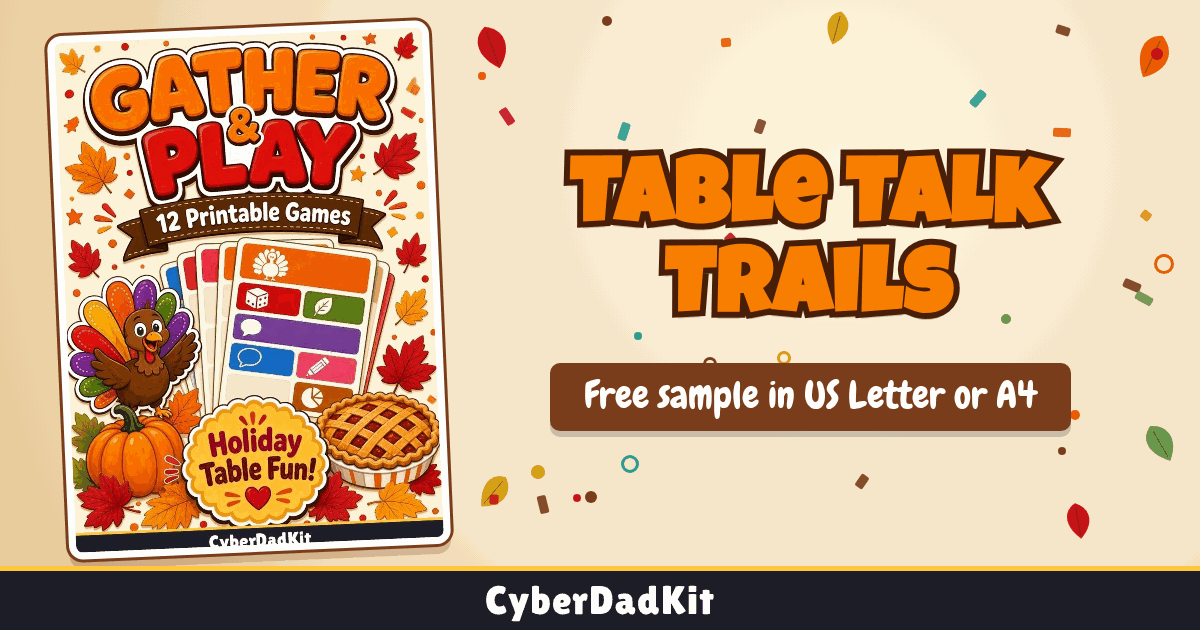
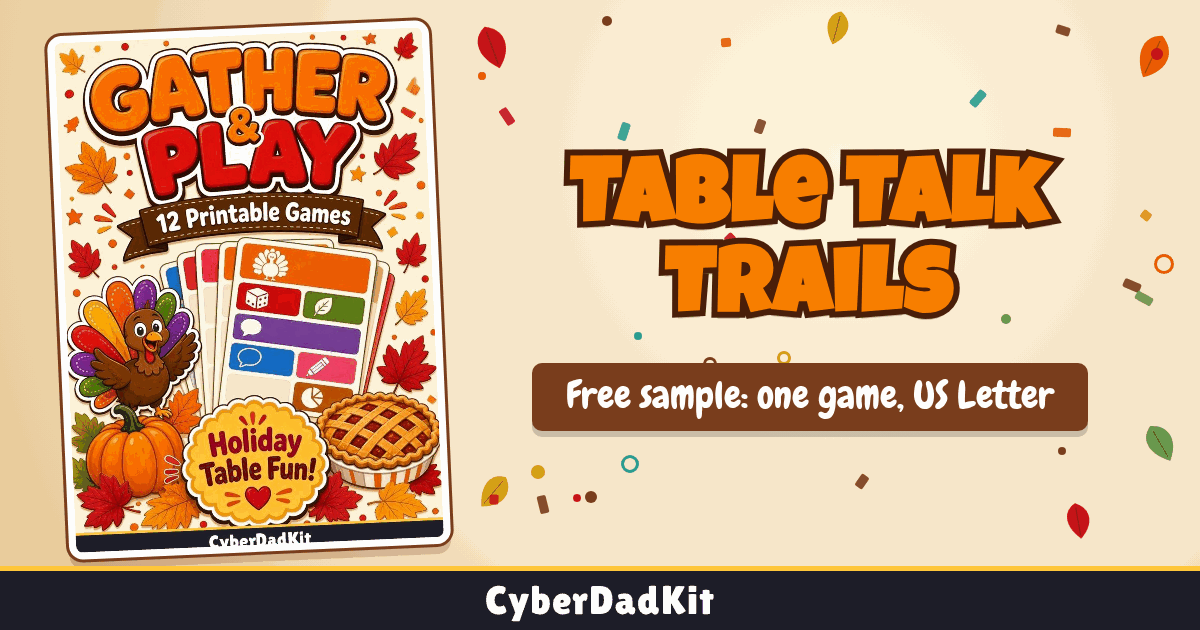
Holiday share cards v2: X picks only the landscape card, single header brand, no em dashes
- /holiday/sample/ card subline: 'Free sample: one game, US Letter' (no A4).
- /holiday/ JSON-LD image: tall pin -> landscape card.
- 6 refund pages: og:image (1200x630) + twitter:card summary_large_image + twitter:image (parent product card).
- Header on all 14 /holiday/ pages: remove duplicate 'CyberDad Kit' sub-span; link reads 'CyberDadKit' once.
- Em dashes in visible copy (/holiday/ 18, /holiday/refund/ 4) replaced with colons; no other wording change.

Changed region(s): [[0.4317, 0.573, 0.925, 0.6937]]

diff --git a/holiday/index.html b/holiday/index.html
@@ -25,7 +25,7 @@ layout: null
   "@type": "Product",
   "name": "Gather & Play: Thanksgiving + Christmas Gathering Games",
   "description": "Printable Thanksgiving and Christmas family gathering games. Twelve games in four PDFs for $7.99 USD, one-time, for customers located in the United States.",
-  "image": "https://getcyberdadkit.com/holiday/pins/pin-gathering-games.png",
+  "image": "https://getcyberdadkit.com/assets/share/holiday-gather-and-play.png",
   "brand": {
     "@type": "Brand",
     "name": "CyberDadKit"
@@ -55,7 +55,6 @@ layout: null
   <div class="hday-bar">
     <a class="hday-brand" href="/holiday/">
       <span class="hday-brand-name">CyberDadKit</span>
-      <span class="hday-brand-sub">CyberDad Kit</span>
     </a>
     <nav class="hday-nav" aria-label="Holiday storefront">
       <ul>
@@ -179,10 +178,10 @@ layout: null
   <section class="hday-section" id="thanksgiving-packs" aria-labelledby="thanksgiving-packs-title">
     <h2 id="thanksgiving-packs-title">More for Thanksgiving</h2>
     <ul class="hday-links">
-      <li><a href="/holiday/host-planner/">Thanksgiving Host Planner</a> <span>— an undated, write-in planner for the host, as printable PDFs plus a tablet PDF. $4.99 USD, one-time.</span></li>
+      <li><a href="/holiday/host-planner/">Thanksgiving Host Planner</a> <span>: an undated, write-in planner for the host, as printable PDFs plus a tablet PDF. $4.99 USD, one-time.</span></li>
       <li><a href="/holiday/table-set/">Thanksgiving Table Set</a><span>: festive print-at-home placemats, tent place cards and drink labels with a write-in line for what is in each glass. USD $4.99 one-time, US customers only.</span></li>
       <li id="travel-adventure"><picture class="festive-cover hday-card-cover"><img src="/assets/img/festive/thanksgiving-travel-adventure-cover.jpg" width="720" height="1022" alt="Cover of The Great Thanksgiving Travel Adventure, a 6-page US Letter color printable with 4 travel activities for Ages 7+." loading="lazy" decoding="async"></picture> The Great Thanksgiving Travel Adventure<span>: a 6-page US Letter color printable with 4 travel activities (word search, Travel Bingo, a maze and a Thankful Travel Challenge), plus an answer key. Print at home and bring it along with a pencil or crayons. Ages 7+. USD $4.99 one-time, US customers only.</span></li>
-      <li><a href="/holiday/kids-table/">Kids' Table Activity Pack</a> <span>— 14 print-at-home activities for the kids' table. $5.99 USD, one-time, or <a href="/holiday/kids-table/#bundle">$11.99 USD with Gather &amp; Play</a>.</span></li>
+      <li><a href="/holiday/kids-table/">Kids' Table Activity Pack</a> <span>: 14 print-at-home activities for the kids' table. $5.99 USD, one-time, or <a href="/holiday/kids-table/#bundle">$11.99 USD with Gather &amp; Play</a>.</span></li>
     </ul>
     <p><a class="hday-pay" id="host-planner-checkout-holiday" href="https://buy.stripe.com/9B69ASdOK1HWayNdYzds40b">Buy Thanksgiving Host Planner for $4.99 USD</a> <a class="hday-pay" id="table-set-checkout-holiday" href="https://buy.stripe.com/dRm28q9yu2M08qFaMnds40e">Buy Thanksgiving Table Set for $4.99 USD</a> <a class="hday-pay" id="travel-adventure-checkout-holiday" href="https://buy.stripe.com/00waEW4ea3Q4eP3f2Dds40g">Buy The Great Thanksgiving Travel Adventure for $4.99 USD</a> <a class="hday-pay" id="kids-checkout-holiday" href="https://buy.stripe.com/6oU7sK7qm2M05et3jVds40c">Buy Kids' Table Activity Pack for $5.99 USD</a> <a class="hday-pay" id="kids-bundle-checkout-holiday" href="https://buy.stripe.com/4gM9ASeSO72g9uJbQrds40d">Buy the Kids' Table + Gather &amp; Play bundle for $11.99 USD</a></p>
     <p>Paid purchases are available only to customers located in the United States.</p>
@@ -239,23 +238,23 @@ layout: null
       <div>
         <h3>Thanksgiving</h3>
         <ol>
-          <li>Table Talk Trails — conversation paths</li>
-          <li>Harvest Category Sprint — category lists with letter rules</li>
-          <li>Thanksgiving Mix-Up — ten letter scrambles</li>
-          <li>Pass-the-Plate Sketch — drawing telephone</li>
-          <li>Gathering Forecast — predict other players’ choices</li>
-          <li>Thankful Alphabet Relay — a cooperative memory chain</li>
+          <li>Table Talk Trails: conversation paths</li>
+          <li>Harvest Category Sprint: category lists with letter rules</li>
+          <li>Thanksgiving Mix-Up: ten letter scrambles</li>
+          <li>Pass-the-Plate Sketch: drawing telephone</li>
+          <li>Gathering Forecast: predict other players’ choices</li>
+          <li>Thankful Alphabet Relay: a cooperative memory chain</li>
         </ol>
       </div>
       <div>
         <h3>Christmas + winter</h3>
         <ol start="7">
-          <li>Winter Word Hunt — ten hidden words</li>
-          <li>Parcel Clues — describe a target without its blocked words</li>
-          <li>Snowfall Story Switch — fold-and-pass writing</li>
-          <li>Ribbon Route — a single-path maze</li>
-          <li>Seasonal Priority Shuffle — rank an imaginary gathering</li>
-          <li>Holiday Table Logic — deduce seats and paper decorations</li>
+          <li>Winter Word Hunt: ten hidden words</li>
+          <li>Parcel Clues: describe a target without its blocked words</li>
+          <li>Snowfall Story Switch: fold-and-pass writing</li>
+          <li>Ribbon Route: a single-path maze</li>
+          <li>Seasonal Priority Shuffle: rank an imaginary gathering</li>
+          <li>Holiday Table Logic: deduce seats and paper decorations</li>
         </ol>
       </div>
     </div>
@@ -298,14 +297,14 @@ layout: null
     <p id="gather-play-refund-wording">Gather &amp; Play is a digital product. You may request a full refund for any reason within 7 days of your purchase date. Email <a href="mailto:ruel@getcyberdadkit.com">ruel@getcyberdadkit.com</a> with the email address used for purchase and your order reference. Never send card details. Refunds are returned to the original payment method. No physical return is required. This policy applies only to Gather &amp; Play and does not limit your statutory rights.</p>
     <p>That wording is also on the <a href="/holiday/refund/">Gather &amp; Play refund page</a>. It does not promise automatic processing or a reply by a set time.</p>
     <ul class="hday-links">
-      <li><a href="/holiday/sample/">Free sample</a> <span>— Table Talk Trails, US Letter and A4</span></li>
-      <li><a href="/holiday/refund/">Gather &amp; Play refund policy</a> <span>— this product only</span></li>
-      <li><a href="/contact/">Contact</a> <span>— ruel@getcyberdadkit.com</span></li>
+      <li><a href="/holiday/sample/">Free sample</a> <span>: Table Talk Trails, US Letter and A4</span></li>
+      <li><a href="/holiday/refund/">Gather &amp; Play refund policy</a> <span>: this product only</span></li>
+      <li><a href="/contact/">Contact</a> <span>: ruel@getcyberdadkit.com</span></li>
       <li><a href="/holiday/refund/">Refund policy: Gather &amp; Play, full refund within 7 days of purchase. Each product page lists its own refund terms.</a></li>
       <li><a href="/terms-of-sale/">Terms of sale: holiday digital printables.</a></li>
       <li><a href="/cyberdadkit-privacy-policy.html">Privacy policy</a></li>
       <li><a href="/cookie-policy.html">Cookie policy</a></li>
-      <li><a href="/sites/refund/">Sites refunds and cancellation</a> <span>— website rebuilds</span></li>
+      <li><a href="/sites/refund/">Sites refunds and cancellation</a> <span>: website rebuilds</span></li>
       <li><a href="/sites/">CyberDad Kit Sites</a></li>
       <li><a href="/">CyberDadKit home</a></li>
     </ul>

diff --git a/holiday/refund/index.html b/holiday/refund/index.html
@@ -9,6 +9,11 @@ layout: null
 <title>Gather &amp; Play refund policy · CyberDadKit</title>
 <meta name="description" content="Refund policy for Gather &amp; Play only. A full refund may be requested for any reason within 7 days of the purchase date. Email ruel@getcyberdadkit.com. No card details.">
 <link rel="canonical" href="https://getcyberdadkit.com/holiday/refund/">
+<meta property="og:image" content="https://getcyberdadkit.com/assets/share/holiday-gather-and-play.png">
+<meta property="og:image:width" content="1200">
+<meta property="og:image:height" content="630">
+<meta name="twitter:card" content="summary_large_image">
+<meta name="twitter:image" content="https://getcyberdadkit.com/assets/share/holiday-gather-and-play.png">
 <meta name="theme-color" content="#244b3d">
 <link rel="stylesheet" href="/holiday/assets/holiday.css">
 {% include ga4.html %}
@@ -22,7 +27,6 @@ layout: null
   <div class="hday-bar">
     <a class="hday-brand" href="/holiday/">
       <span class="hday-brand-name">CyberDadKit</span>
-      <span class="hday-brand-sub">CyberDad Kit</span>
     </a>
     <nav class="hday-nav" aria-label="Gather and Play refund">
       <ul>
@@ -55,10 +59,10 @@ layout: null
     <h2 id="other-title">Other CyberDadKit policies</h2>
     <p>This page does not change them.</p>
     <ul class="hday-links">
-      <li><a href="/refund-policy/">Refund policy</a> <span>— our other digital products</span></li>
-      <li><a href="/terms-of-sale/">Terms of sale</a> <span>— holiday digital printables and our other digital products</span></li>
-      <li><a href="/sites/refund/">Sites refunds and cancellation</a> <span>— website rebuilds only</span></li>
-      <li><a href="/contact/">Contact</a> <span>— ruel@getcyberdadkit.com</span></li>
+      <li><a href="/refund-policy/">Refund policy</a> <span>: our other digital products</span></li>
+      <li><a href="/terms-of-sale/">Terms of sale</a> <span>: holiday digital printables and our other digital products</span></li>
+      <li><a href="/sites/refund/">Sites refunds and cancellation</a> <span>: website rebuilds only</span></li>
+      <li><a href="/contact/">Contact</a> <span>: ruel@getcyberdadkit.com</span></li>
       <li><a href="/holiday/">Gather &amp; Play</a></li>
       <li><a href="/holiday/sample/">Free sample</a></li>
     </ul>

diff --git a/holiday/kids-table/refund/index.html b/holiday/kids-table/refund/index.html
@@ -6,6 +6,11 @@
 <title>Kids' Table Activity Pack refund policy · CyberDadKit</title>
 <meta name="description" content="Refund policy for the Kids' Table Activity Pack and the Kids' Table Activity Pack + Gather &amp; Play bundle. A full refund may be requested for any reason within 7 days of the purchase date.">
 <link rel="canonical" href="https://getcyberdadkit.com/holiday/kids-table/refund/">
+<meta property="og:image" content="https://getcyberdadkit.com/assets/share/holiday-kids-table.png">
+<meta property="og:image:width" content="1200">
+<meta property="og:image:height" content="630">
+<meta name="twitter:card" content="summary_large_image">
+<meta name="twitter:image" content="https://getcyberdadkit.com/assets/share/holiday-kids-table.png">
 <meta name="theme-color" content="#244b3d">
 <link rel="stylesheet" href="/holiday/assets/holiday.css">
 <script async src="https://www.googletagmanager.com/gtag/js?id=G-5B1LNCPB56"></script>
@@ -21,7 +26,7 @@
 <div class="hday-banner"><p><strong>Kids' Table Activity Pack and its bundle only.</strong> Other CyberDadKit products keep their own policies.</p></div>
 <header class="hday-header">
   <div class="hday-bar">
-    <a class="hday-brand" href="/holiday/"><span class="hday-brand-name">CyberDadKit</span><span class="hday-brand-sub">CyberDad Kit</span></a>
+    <a class="hday-brand" href="/holiday/"><span class="hday-brand-name">CyberDadKit</span></a>
     <nav class="hday-nav" aria-label="Kids' Table refund"><ul>
       <li><a href="/holiday/kids-table/">Kids' Table Activity Pack</a></li>
       <li><a href="#license">Printing license</a></li>

diff --git a/holiday/trivia/refund/index.html b/holiday/trivia/refund/index.html
@@ -6,6 +6,11 @@
 <title>Christmas Trivia Night refund policy · CyberDadKit</title>
 <meta name="description" content="Refund policy for Christmas Trivia Night and the Christmas Trivia Night + Gather &amp; Play bundle. A full refund may be requested for any reason within 7 days of the purchase date.">
 <link rel="canonical" href="https://getcyberdadkit.com/holiday/trivia/refund/">
+<meta property="og:image" content="https://getcyberdadkit.com/assets/share/holiday-christmas-trivia.png">
+<meta property="og:image:width" content="1200">
+<meta property="og:image:height" content="630">
+<meta name="twitter:card" content="summary_large_image">
+<meta name="twitter:image" content="https://getcyberdadkit.com/assets/share/holiday-christmas-trivia.png">
 <meta name="theme-color" content="#244b3d">
 <link rel="stylesheet" href="/holiday/assets/holiday.css">
 <script async src="https://www.googletagmanager.com/gtag/js?id=G-5B1LNCPB56"></script>
@@ -21,7 +26,7 @@
 <div class="hday-banner"><p><strong>Christmas Trivia Night and its bundle only.</strong> Other CyberDadKit products keep their own policies.</p></div>
 <header class="hday-header">
   <div class="hday-bar">
-    <a class="hday-brand" href="/holiday/"><span class="hday-brand-name">CyberDadKit</span><span class="hday-brand-sub">CyberDad Kit</span></a>
+    <a class="hday-brand" href="/holiday/"><span class="hday-brand-name">CyberDadKit</span></a>
     <nav class="hday-nav" aria-label="Trivia refund"><ul>
       <li><a href="/holiday/trivia/">Christmas Trivia Night</a></li>
       <li><a href="/holiday/trivia/sample/">Free sample</a></li>

diff --git a/holiday/host-planner/refund/index.html b/holiday/host-planner/refund/index.html
@@ -6,6 +6,11 @@
 <title>Thanksgiving Host Planner refund policy · CyberDadKit</title>
 <meta name="description" content="Refund policy for the Thanksgiving Host Planner. A full refund may be requested for any reason within 7 days of the purchase date.">
 <link rel="canonical" href="https://getcyberdadkit.com/holiday/host-planner/refund/">
+<meta property="og:image" content="https://getcyberdadkit.com/assets/share/holiday-host-planner.png">
+<meta property="og:image:width" content="1200">
+<meta property="og:image:height" content="630">
+<meta name="twitter:card" content="summary_large_image">
+<meta name="twitter:image" content="https://getcyberdadkit.com/assets/share/holiday-host-planner.png">
 <meta name="theme-color" content="#244b3d">
 <link rel="stylesheet" href="/holiday/assets/holiday.css">
 <script async src="https://www.googletagmanager.com/gtag/js?id=G-5B1LNCPB56"></script>
@@ -21,7 +26,7 @@
 <div class="hday-banner"><p><strong>Thanksgiving Host Planner only.</strong> Other CyberDadKit products keep their own policies.</p></div>
 <header class="hday-header">
   <div class="hday-bar">
-    <a class="hday-brand" href="/holiday/"><span class="hday-brand-name">CyberDadKit</span><span class="hday-brand-sub">CyberDad Kit</span></a>
+    <a class="hday-brand" href="/holiday/"><span class="hday-brand-name">CyberDadKit</span></a>
     <nav class="hday-nav" aria-label="Host Planner refund"><ul>
       <li><a href="/holiday/host-planner/">Thanksgiving Host Planner</a></li>
       <li><a href="#license">Printing license</a></li>

diff --git a/holiday/table-set/refund/index.html b/holiday/table-set/refund/index.html
@@ -6,6 +6,11 @@
 <title>Thanksgiving Table Set refund policy · CyberDadKit</title>
 <meta name="description" content="Refund policy for the Thanksgiving Table Set. A full refund may be requested for any reason within 7 days of the purchase date.">
 <link rel="canonical" href="https://getcyberdadkit.com/holiday/table-set/refund/">
+<meta property="og:image" content="https://getcyberdadkit.com/assets/share/holiday-table-set.png">
+<meta property="og:image:width" content="1200">
+<meta property="og:image:height" content="630">
+<meta name="twitter:card" content="summary_large_image">
+<meta name="twitter:image" content="https://getcyberdadkit.com/assets/share/holiday-table-set.png">
 <meta name="theme-color" content="#244b3d">
 <link rel="stylesheet" href="/holiday/assets/holiday.css">
 <script async src="https://www.googletagmanager.com/gtag/js?id=G-5B1LNCPB56"></script>
@@ -21,7 +26,7 @@
 <div class="hday-banner"><p><strong>Thanksgiving Table Set only.</strong> Other CyberDadKit products keep their own policies.</p></div>
 <header class="hday-header">
   <div class="hday-bar">
-    <a class="hday-brand" href="/holiday/"><span class="hday-brand-name">CyberDadKit</span><span class="hday-brand-sub">CyberDad Kit</span></a>
+    <a class="hday-brand" href="/holiday/"><span class="hday-brand-name">CyberDadKit</span></a>
     <nav class="hday-nav" aria-label="Table Set refund"><ul>
       <li><a href="/holiday/table-set/">Thanksgiving Table Set</a></li>
       <li><a href="/contact/">Contact</a></li>

diff --git a/holiday/host-kit/refund/index.html b/holiday/host-kit/refund/index.html
@@ -6,6 +6,11 @@
 <title>Holiday Host Kit refund policy · CyberDadKit</title>
 <meta name="description" content="Refund policy for the Holiday Host Kit. A full refund may be requested for any reason within 7 days of the purchase date.">
 <link rel="canonical" href="https://getcyberdadkit.com/holiday/host-kit/refund/">
+<meta property="og:image" content="https://getcyberdadkit.com/assets/share/holiday-host-kit.png">
+<meta property="og:image:width" content="1200">
+<meta property="og:image:height" content="630">
+<meta name="twitter:card" content="summary_large_image">
+<meta name="twitter:image" content="https://getcyberdadkit.com/assets/share/holiday-host-kit.png">
 <meta name="theme-color" content="#7f1d1d">
 <link rel="stylesheet" href="/holiday/assets/holiday.css">
 <link rel="stylesheet" href="/assets/festive/festive.css">
@@ -22,7 +27,7 @@
 <div class="hday-banner"><p><strong>Holiday Host Kit only.</strong> Other CyberDadKit products keep their own policies.</p></div>
 <header class="hday-header">
   <div class="hday-bar">
-    <a class="hday-brand" href="/holiday/"><span class="hday-brand-name">CyberDadKit</span><span class="hday-brand-sub">CyberDad Kit</span></a>
+    <a class="hday-brand" href="/holiday/"><span class="hday-brand-name">CyberDadKit</span></a>
     <nav class="hday-nav" aria-label="Host Kit refund"><ul>
       <li><a href="/holiday/host-kit/">Holiday Host Kit</a></li>
       <li><a href="/contact/">Contact</a></li>

diff --git a/holiday/host-planner/index.html b/holiday/host-planner/index.html
@@ -36,7 +36,6 @@
   <div class="hday-bar">
     <a class="hday-brand" href="/holiday/">
       <span class="hday-brand-name">CyberDadKit</span>
-      <span class="hday-brand-sub">CyberDad Kit</span>
     </a>
     <nav class="hday-nav" aria-label="Thanksgiving Host Planner">
       <ul>

diff --git a/holiday/kids-table/index.html b/holiday/kids-table/index.html
@@ -36,7 +36,6 @@
   <div class="hday-bar">
     <a class="hday-brand" href="/holiday/">
       <span class="hday-brand-name">CyberDadKit</span>
-      <span class="hday-brand-sub">CyberDad Kit</span>
     </a>
     <nav class="hday-nav" aria-label="Kids' Table Activity Pack">
       <ul>

diff --git a/holiday/sample/index.html b/holiday/sample/index.html
@@ -66,7 +66,6 @@ layout: null
   <div class="hday-bar">
     <a class="hday-brand" href="/holiday/">
       <span class="hday-brand-name">CyberDadKit</span>
-      <span class="hday-brand-sub">CyberDad Kit</span>
     </a>
     <nav class="hday-nav" aria-label="Free sample">
       <ul>

diff --git a/holiday/table-set/index.html b/holiday/table-set/index.html
@@ -36,7 +36,6 @@
   <div class="hday-bar">
     <a class="hday-brand" href="/holiday/">
       <span class="hday-brand-name">CyberDadKit</span>
-      <span class="hday-brand-sub">CyberDad Kit</span>
     </a>
     <nav class="hday-nav" aria-label="Thanksgiving Table Set">
       <ul>

diff --git a/holiday/trivia/index.html b/holiday/trivia/index.html
@@ -36,7 +36,6 @@
   <div class="hday-bar">
     <a class="hday-brand" href="/holiday/">
       <span class="hday-brand-name">CyberDadKit</span>
-      <span class="hday-brand-sub">CyberDad Kit</span>
     </a>
     <nav class="hday-nav" aria-label="Christmas Trivia Night">
       <ul>
